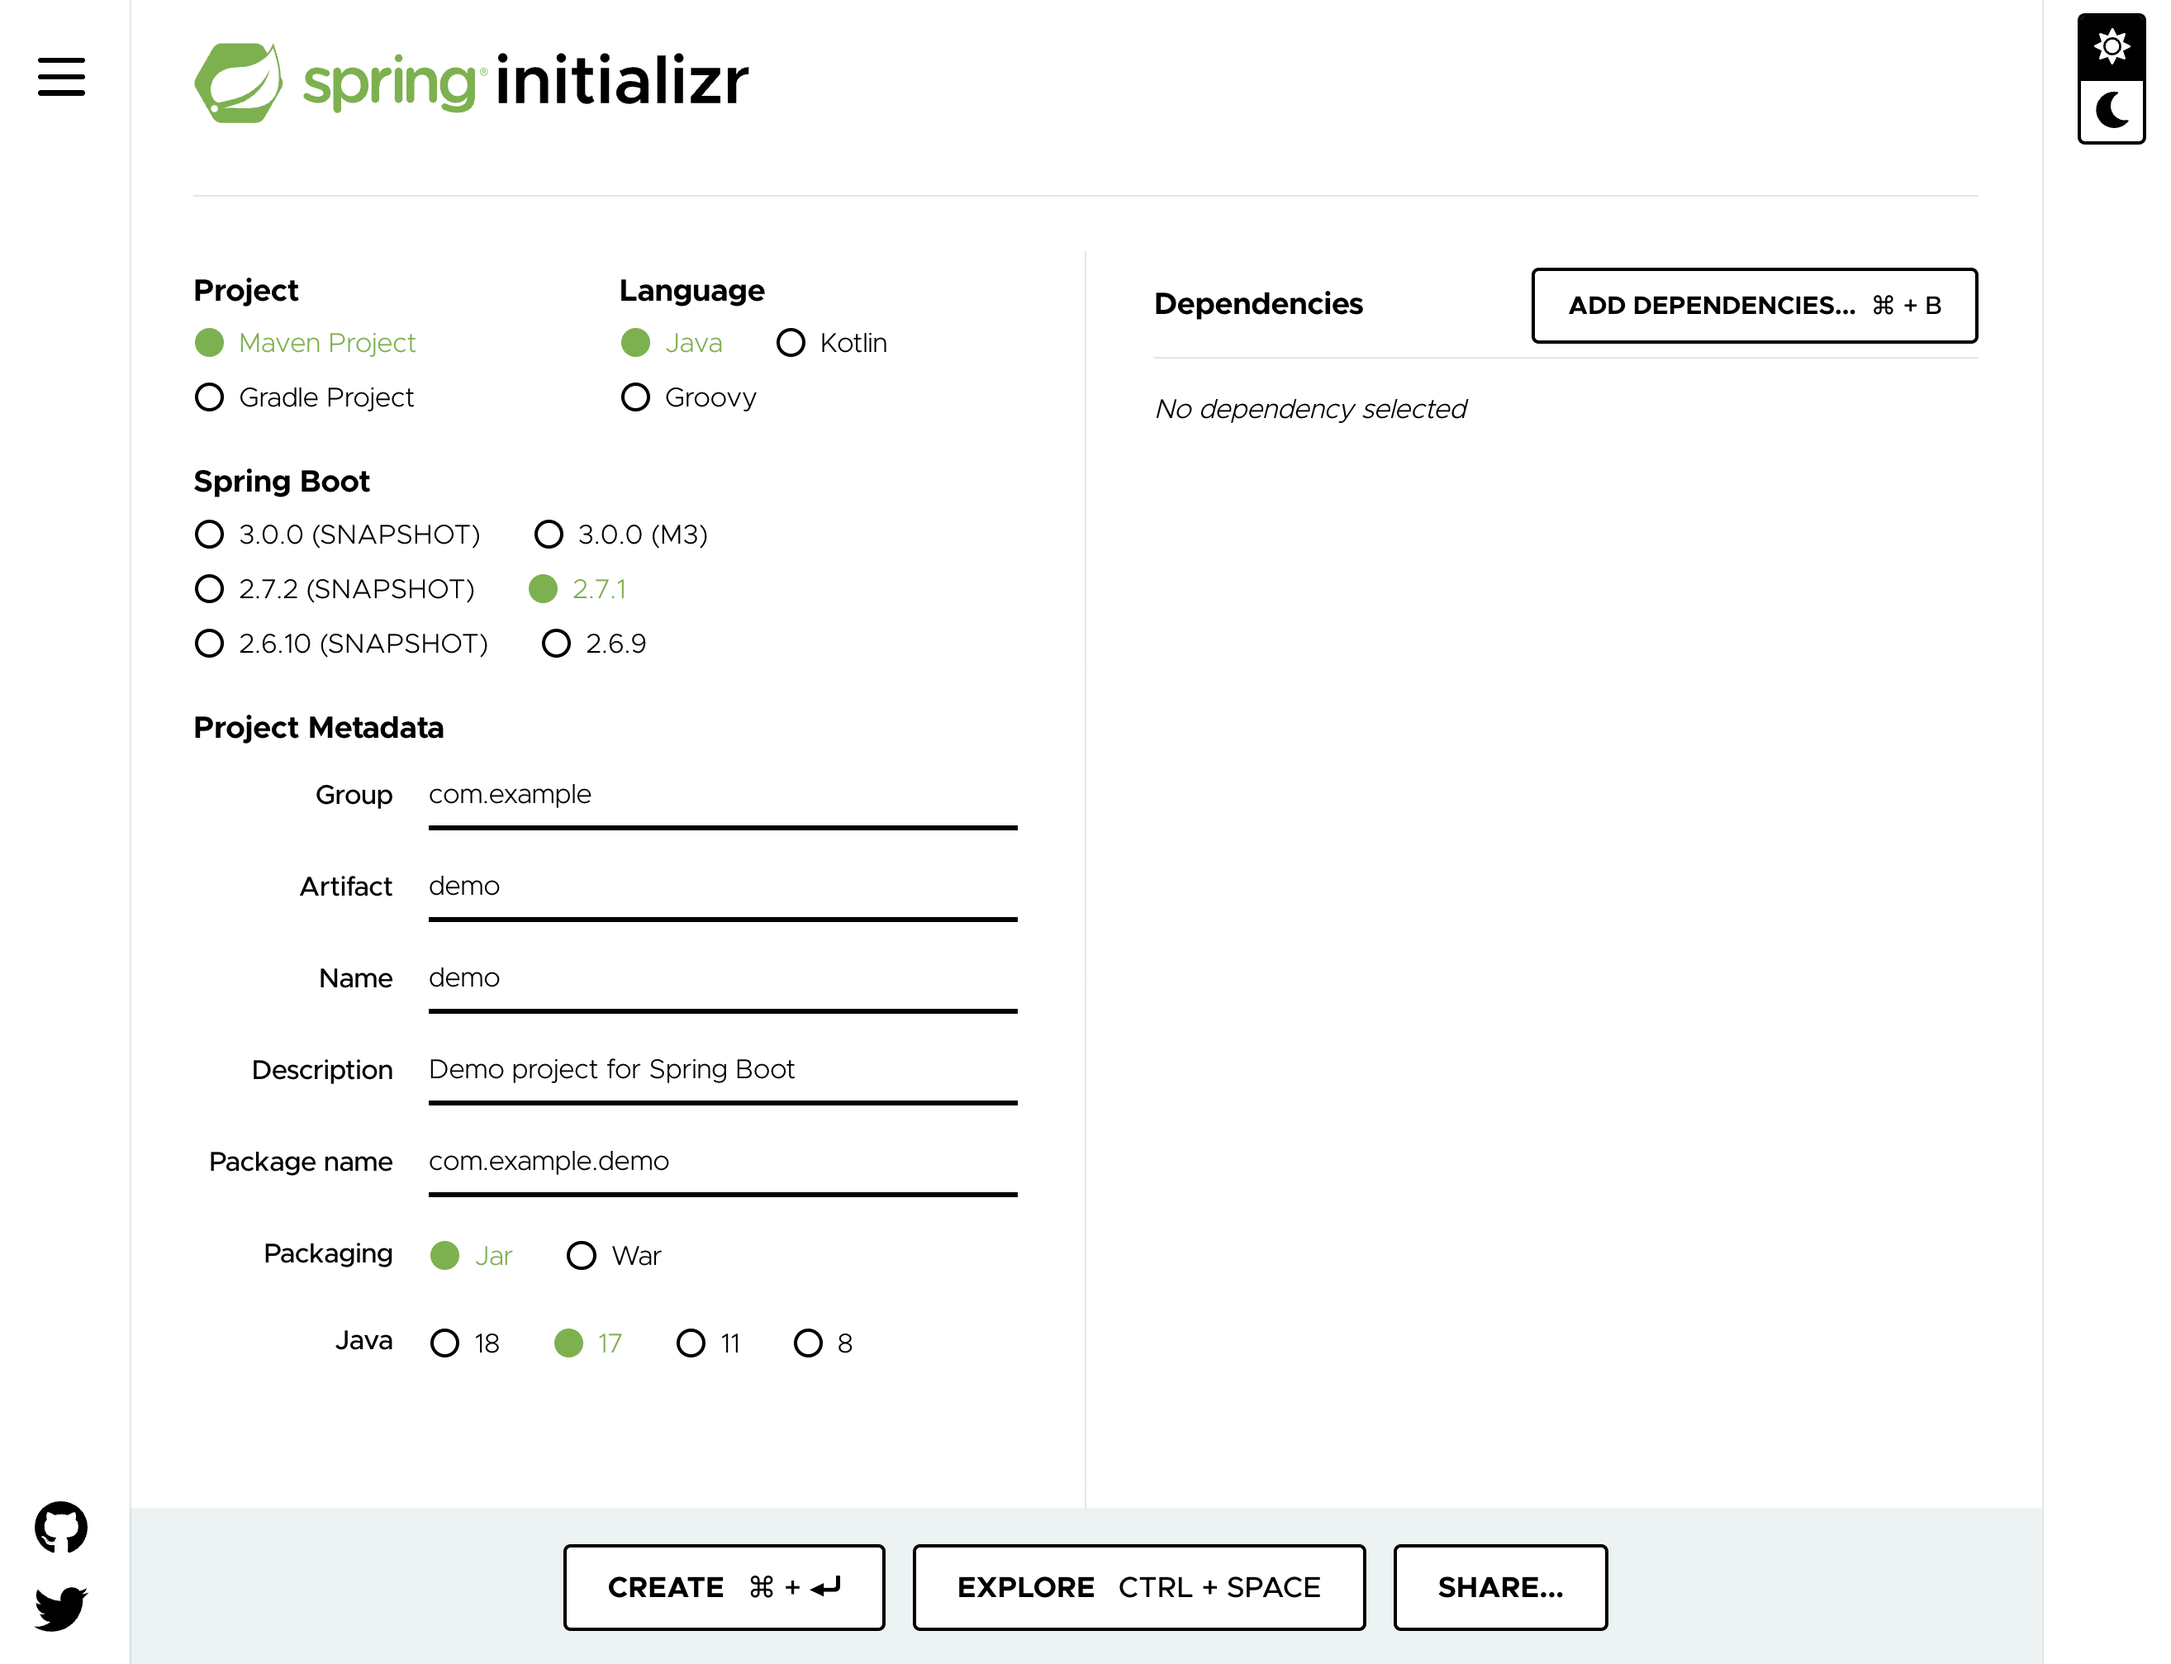
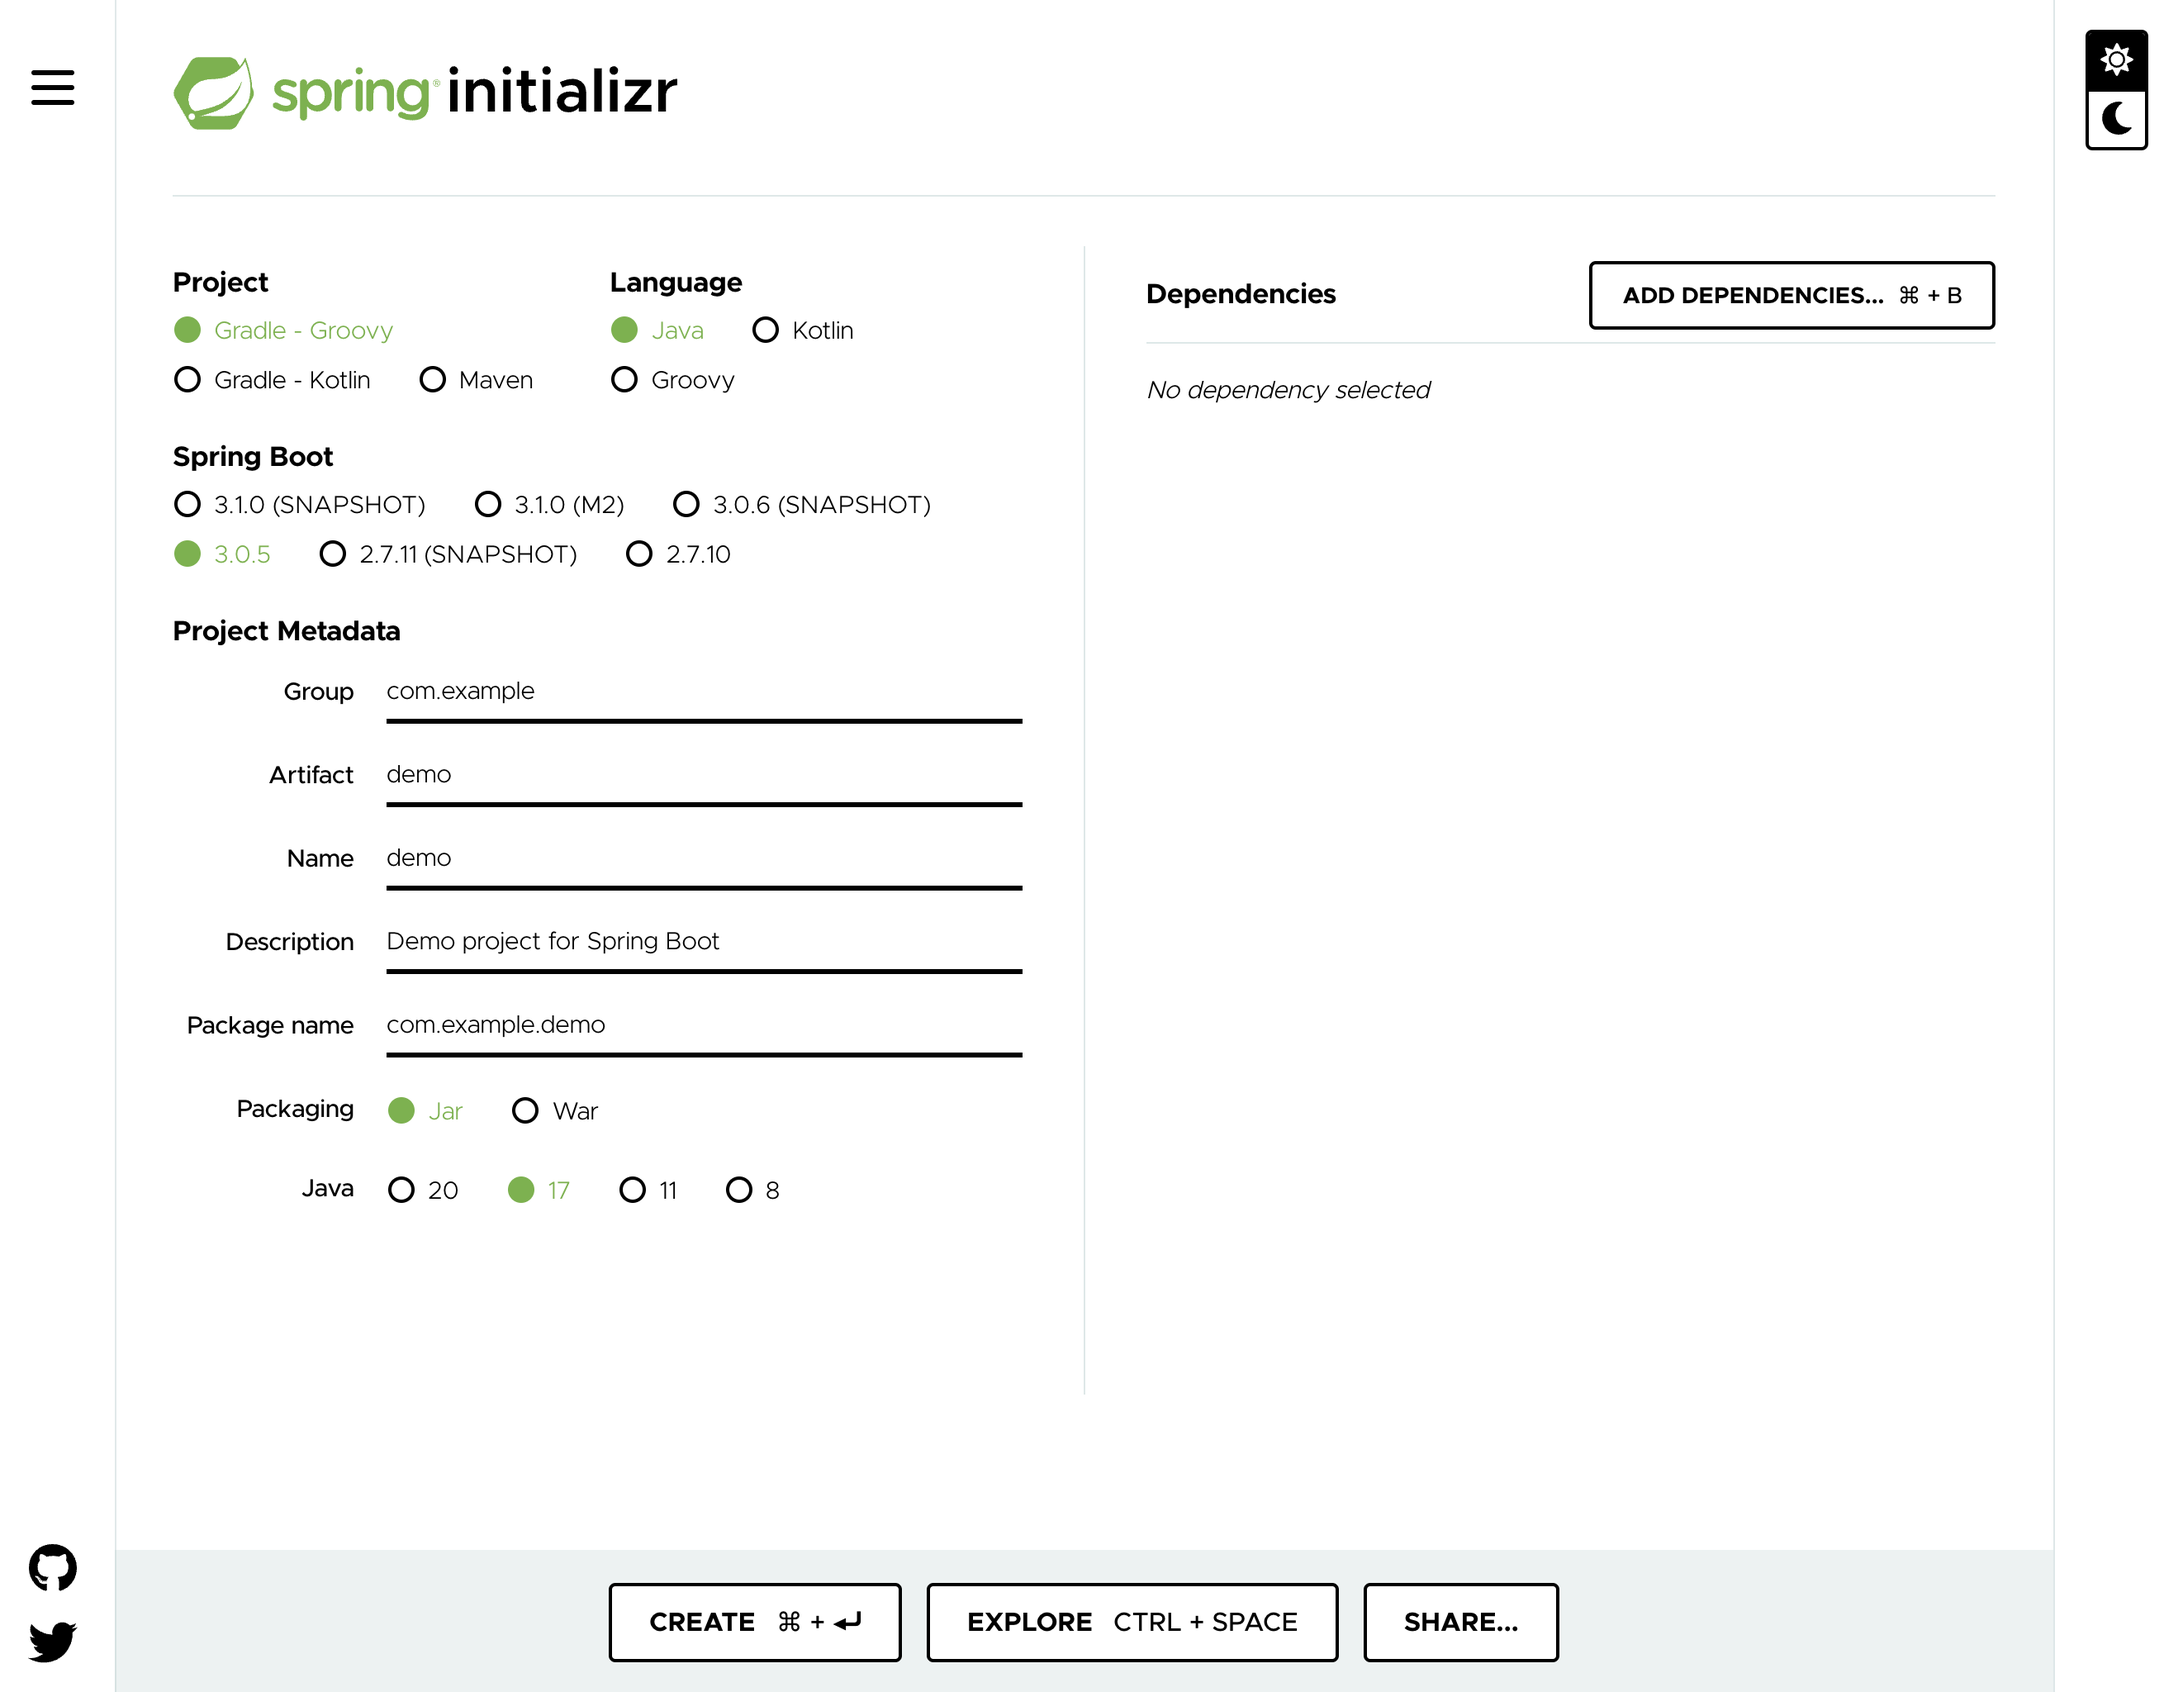
Ensure that Maven project is generated.

diff --git a/workshop/content/exercises/01-creating-an-application.md b/workshop/content/exercises/01-creating-an-application.md
@@ -14,6 +14,8 @@ name: Initializr
 
 For this workshop environment you must ensure Java 17 is selected under the project metadata on Spring Initializr.
 
+Because of later commands we will run, we also want to generate a Maven project rather Gradle, so click on **Maven** under the **Project** category to select it.
+
 You can leave as is the other defaults for the project metadata as the workshop is scripted to already expect the project name to be `demo`.
 
 Now click on **Add Dependencies**, search for `Spring Reactive Web`{{copy}} and add it.
